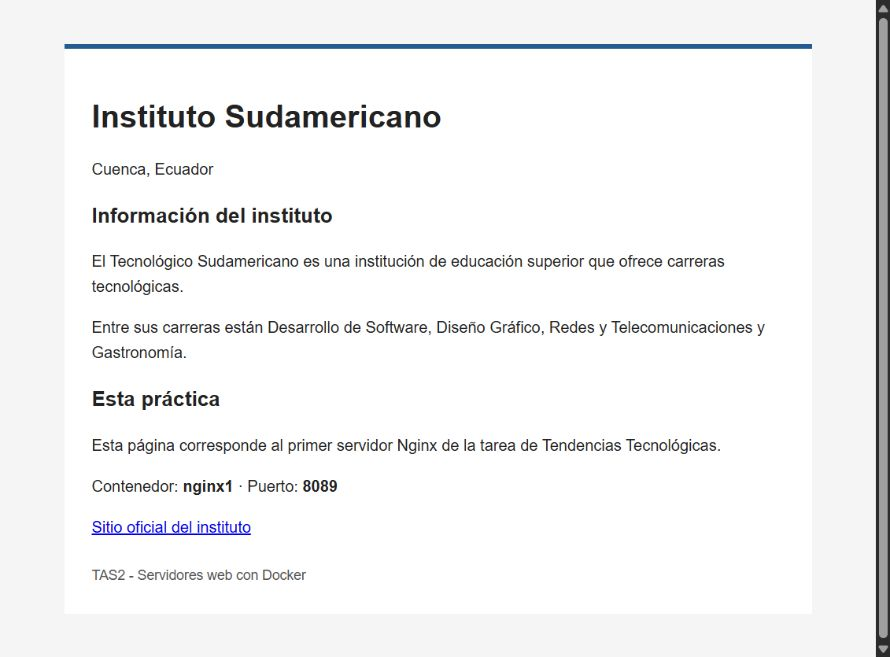
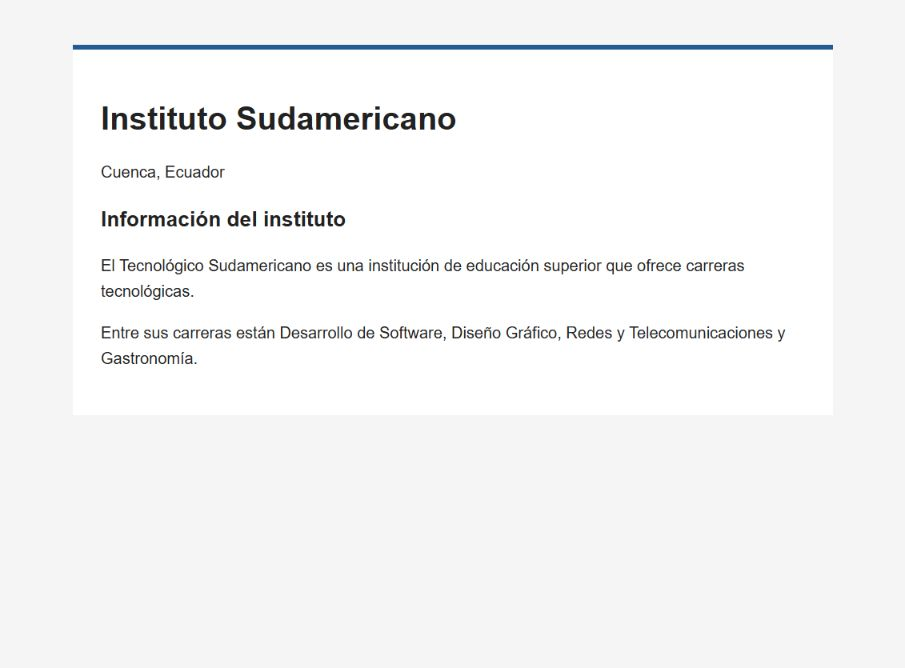
Ajustar paginas

diff --git a/index1.html b/index1.html
@@ -13,11 +13,6 @@
     <h2>Información del instituto</h2>
     <p>El Tecnológico Sudamericano es una institución de educación superior que ofrece carreras tecnológicas.</p>
     <p>Entre sus carreras están Desarrollo de Software, Diseño Gráfico, Redes y Telecomunicaciones y Gastronomía.</p>
-    <h2>Esta práctica</h2>
-    <p>Esta página corresponde al primer servidor Nginx de la tarea de Tendencias Tecnológicas.</p>
-    <p>Contenedor: <strong>nginx1</strong> · Puerto: <strong>8089</strong></p>
-    <p><a href="https://sudamericano.edu.ec/">Sitio oficial del instituto</a></p>
-    <footer>TAS2 - Servidores web con Docker</footer>
   </main>
 </body>
 </html>

diff --git a/index2.html b/index2.html
@@ -14,10 +14,6 @@
     <p><strong>Carrera:</strong> Desarrollo de Software</p>
     <p><strong>Materia:</strong> Tendencias Tecnológicas</p>
     <p><strong>Ciclo:</strong> Cuarto</p>
-    <h2>Esta práctica</h2>
-    <p>Esta es la página del segundo servidor. El archivo index.html se cambió para mostrar estos datos en lugar de la página inicial de Nginx.</p>
-    <p>Contenedor: <strong>nginx2</strong> · Puerto: <strong>8090</strong></p>
-    <footer>TAS2 - Servidores web con Docker</footer>
   </main>
 </body>
 </html>
